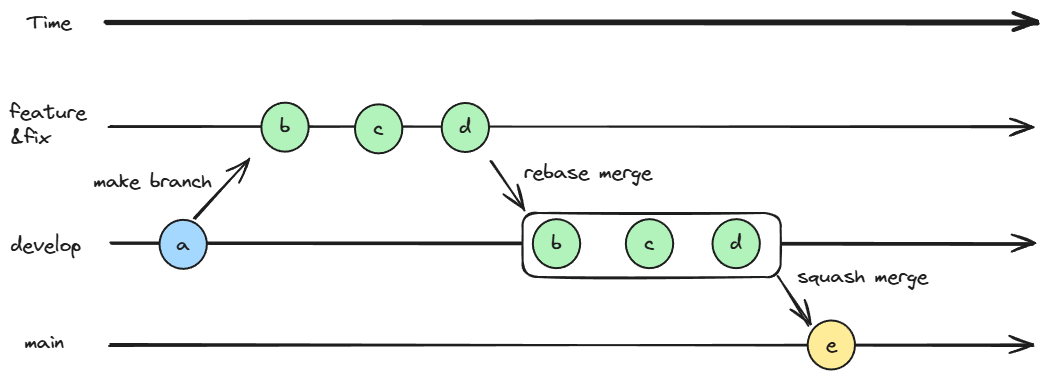
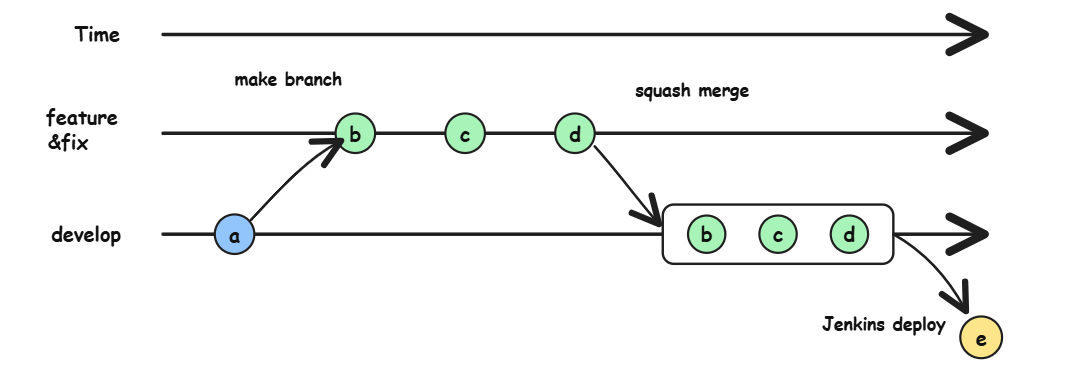
브랜치전략 수정

diff --git a/README.md b/README.md
@@ -5,7 +5,7 @@
 ---
 ## **1. 팀원소개**
 
-| PM | APM | 팀원 | 팀원 |
+| **PM** | **APM** | **팀원** | **팀원**  |
 | :---: | :---: | :---: | :---: |
 |![alt text](img/1.png) |![alt text](img/2.png) | ![alt text](img/3.png)|![alt text](img/4.png) |
 | **유헌상** | **정희영** | **김도영** | **신승훈** |